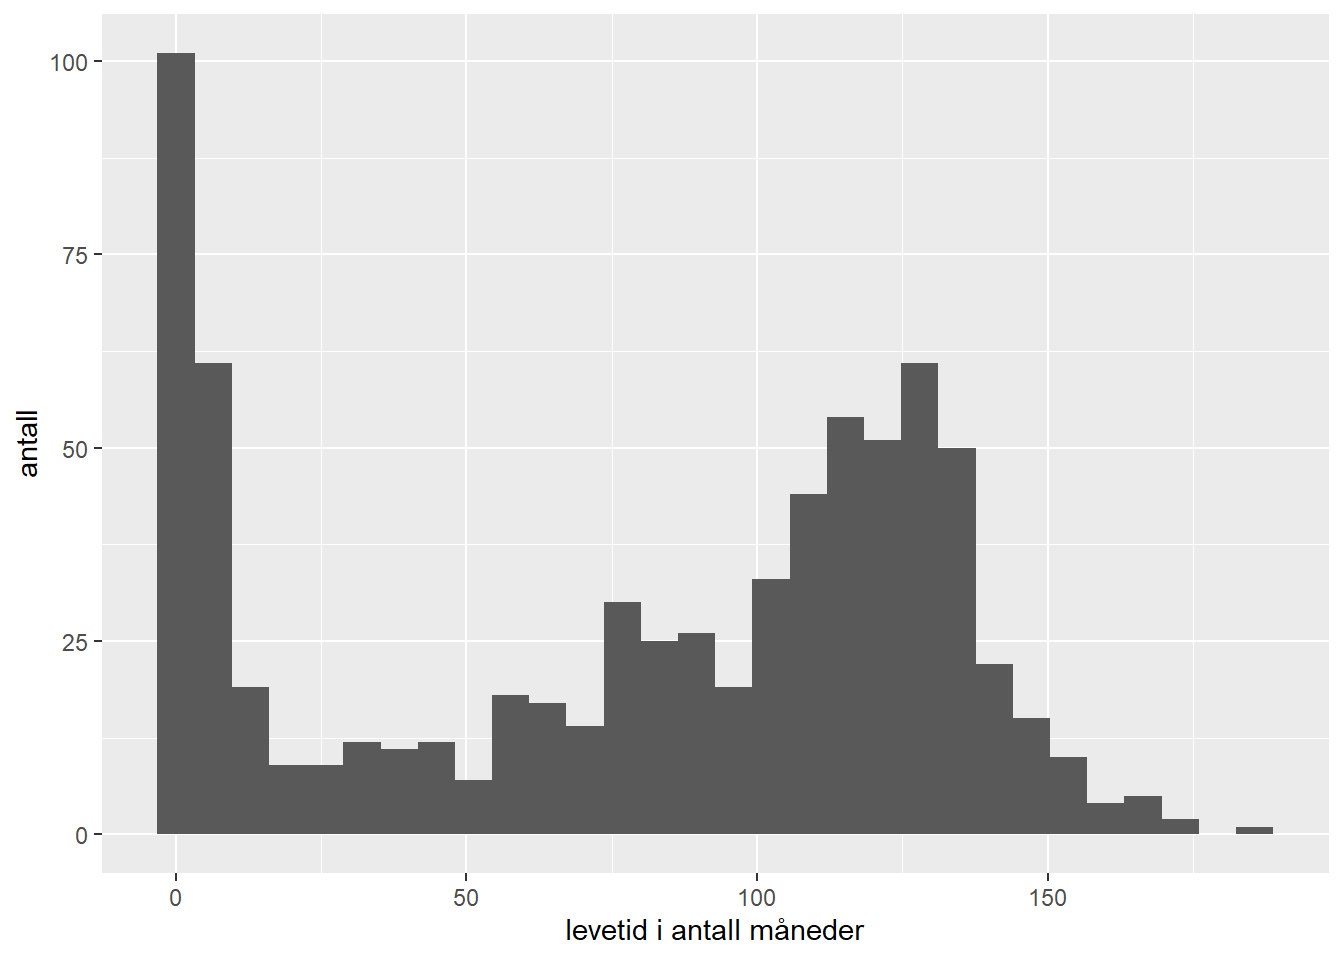
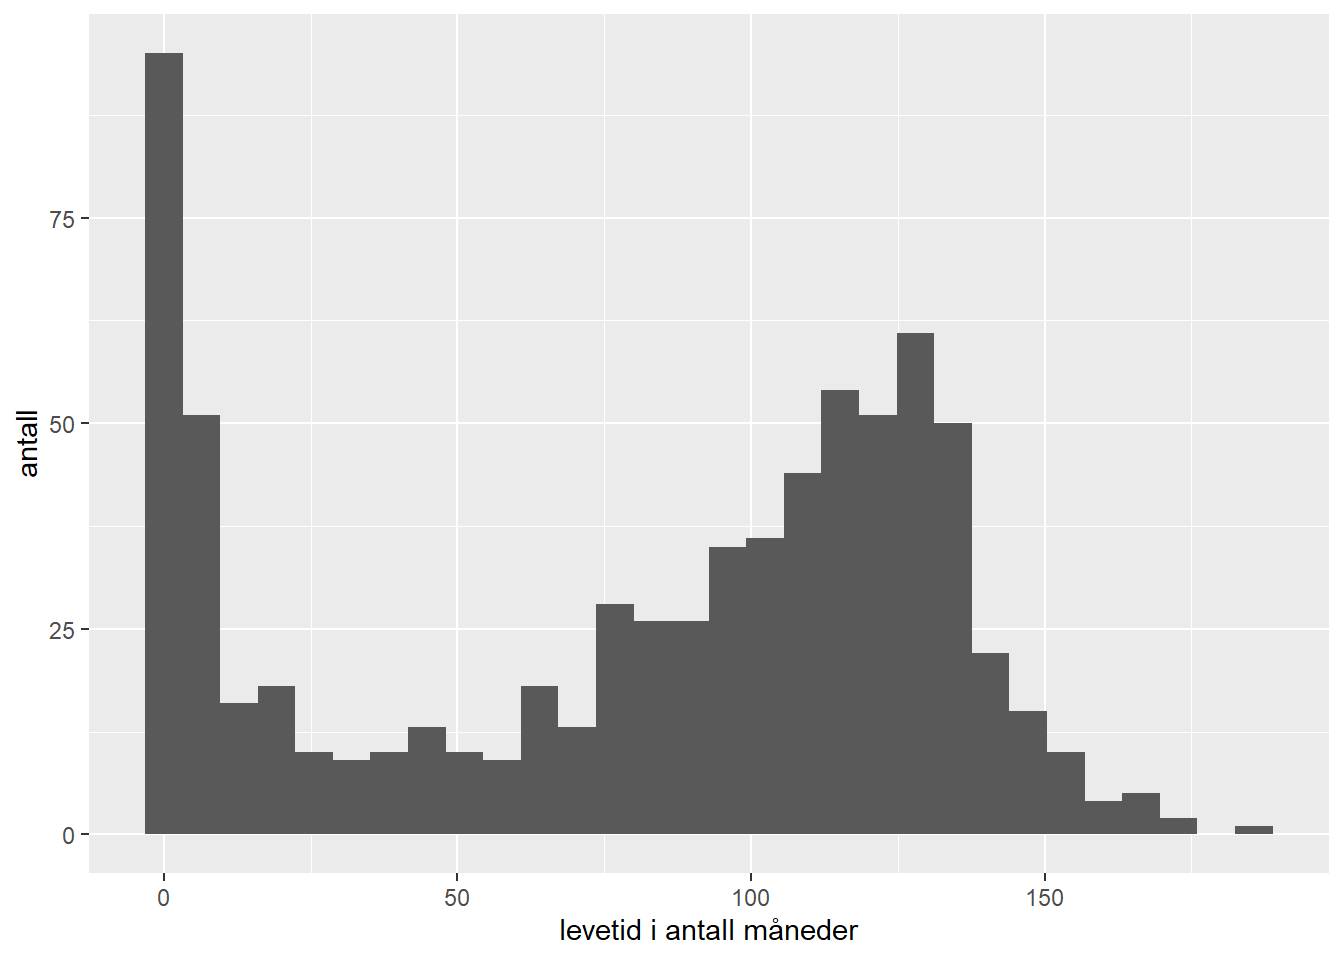
Build

diff --git a/docs/deskriptiv-statistikk.html b/docs/deskriptiv-statistikk.html
@@ -270,10 +270,26 @@ code span.wa { color: #60a0b0; font-weight: bold; font-style: italic; } /* Warni
 </div>
 <p><em>Videovinduet inneholder flere videoer. Bruk nedtrekksmenyen øverst i vinduet for å få en oversikt over alle videoene i dette delkapittelet og bytte mellom dem.</em></p>
 <p>Deskriptiv statistikk har to hovedformål. Det første er å <strong>bli kjent med et datasett</strong>: før vi setter i gang med mer avansert analyse, vil vi danne oss et bilde av hva slags tall vi har foran oss, om det finnes åpenbare feil eller ekstremverdier, og hvilke mønstre som umiddelbart trer frem. Det andre formålet er å <strong>presentere resultater</strong> slik at de er lette å forstå for andre. Et viktig poeng er at deskriptiv statistikk verken generaliserer fra utvalget til en større populasjon eller tester årsakssammenhenger. Vi lar rett og slett dataene fortelle sin egen historie. Selve slutningen fra utvalg til populasjon kommer vi tilbake til i neste delkapittel.</p>
+</div>
+<div id="variabeltyper-og-maleniva" class="section level3 hasAnchor" number="2.1.1">
+<h3><span class="header-section-number">2.1.1</span> Variabeltyper og målenivå<a href="deskriptiv-statistikk.html#variabeltyper-og-maleniva" class="anchor-section" aria-label="Anchor link to header"></a></h3>
+<p>Før vi beskriver et datasett, er det nyttig å vite <em>hva slags</em> variabler vi har med å gjøre, for det avgjør hvilke regnestykker og figurer som gir mening. Vi skiller grovt mellom to hovedtyper:</p>
+<ul>
+<li><strong>Kategoriske variabler</strong> deler observasjonene inn i grupper. Eksempler er kjønn, parti, bostedsfylke eller karakter (A til F). Vi kan telle hvor mange som havner i hver kategori, men det gir sjelden mening å regne ut et «gjennomsnitt» av dem.</li>
+<li><strong>Numeriske (kvantitative) variabler</strong> er tall vi faktisk kan regne med, som alder, inntekt, høyde eller antall barn.</li>
+</ul>
+<p>Innenfor disse to typene er det vanlig å skille mellom fire <strong>målenivåer</strong>, etter hvor mye informasjon verdiene bærer:</p>
+<ul>
+<li><strong>Nominalnivå</strong> (kategorisk): rene merkelapper uten naturlig rekkefølge, for eksempel parti eller sivilstand. Det eneste vi kan gjøre, er å avgjøre om to verdier er <em>like</em> eller <em>ulike</em> (<span class="math inline">\(=\)</span>, <span class="math inline">\(\neq\)</span>). En kategorisk variabel med bare to mulige verdier (ja/nei) kalles <em>dikotom</em>.</li>
+<li><strong>Ordinalnivå</strong> (kategorisk): kategorier med en naturlig <em>rangering</em>, men uten at avstanden mellom trinnene er veldefinert. Svaralternativene fra «svært misfornøyd» til «svært fornøyd» er ordinale: vi vet at «fornøyd» er bedre enn «misfornøyd» (<span class="math inline">\(&lt;\)</span>, <span class="math inline">\(&gt;\)</span>), men ikke <em>hvor mye</em> bedre.</li>
+<li><strong>Intervallnivå</strong> (numerisk): tall der <em>avstandene</em> er meningsfulle, men der nullpunktet er vilkårlig. Temperatur i Celsius er det klassiske eksempelet: forskjellen mellom 10 og 20 grader er like stor som mellom 20 og 30, men 0 °C betyr ikke «ingen temperatur», og 20 °C er <em>ikke</em> dobbelt så varmt som 10 °C. Vi kan legge til og trekke fra (<span class="math inline">\(+\)</span>, <span class="math inline">\(-\)</span>), men forholdstall gir ikke mening.</li>
+<li><strong>Forholdsnivå</strong> (numerisk): som intervallnivå, men med et ekte nullpunkt, slik at også <em>forholdstall</em> gir mening. Inntekt, vekt, tidsbruk og antall er forholdsdata: 0 kr betyr ingen inntekt, og 100 000 kr er dobbelt så mye som 50 000 kr. Her er alle de vanlige regneoperasjonene tillatt (<span class="math inline">\(=, \neq, &lt;, &gt;, +, -, \times, /\)</span>).</li>
+</ul>
+<p>Nivåene bygger på hverandre: hvert nivå tillater alt det forrige gjør, pluss litt mer. Målenivået styrer også hvilke beskrivende mål som gir mening. For en nominal variabel er <em>typetallet</em> det eneste fornuftige sentralmålet; for ordinaldata kan vi i tillegg bruke <em>medianen</em>; og først for intervall- og forholdsdata er <em>gjennomsnittet</em> meningsfullt.</p>
 <p>Når vi beskriver en tallvariabel numerisk, er det særlig to spørsmål vi stiller: <em>hvor ligger tyngdepunktet i dataene</em>, og <em>hvor spredt er de rundt dette tyngdepunktet</em>? Har vi to variabler, kommer et tredje spørsmål til: <em>henger de sammen</em>?</p>
 </div>
-<div id="sentraltendens" class="section level3 hasAnchor" number="2.1.1">
-<h3><span class="header-section-number">2.1.1</span> Sentraltendens<a href="deskriptiv-statistikk.html#sentraltendens" class="anchor-section" aria-label="Anchor link to header"></a></h3>
+<div id="sentraltendens" class="section level3 hasAnchor" number="2.1.2">
+<h3><span class="header-section-number">2.1.2</span> Sentraltendens<a href="deskriptiv-statistikk.html#sentraltendens" class="anchor-section" aria-label="Anchor link to header"></a></h3>
 <p>Tyngdepunktet, eller sentraltendensen, kan måles på flere måter:</p>
 <ul>
 <li><strong>Gjennomsnittet</strong> <span class="math inline">\(\overline{X} = \frac{1}{n}\sum_{i=1}^n X_i\)</span> er summen av alle verdiene delt på antallet. Dette er det vanligste målet, men det trekkes lett i retning av ekstremverdier.</li>
@@ -282,15 +298,15 @@ code span.wa { color: #60a0b0; font-weight: bold; font-style: italic; } /* Warni
 </ul>
 <p>Hvorfor bry seg med mer enn gjennomsnittet? Fordi medianen er langt mer <strong>robust</strong> mot ekstremverdier. Tenk deg lønningene på en liten arbeidsplass med ti ansatte, der én av dem tilfeldigvis er konsernsjefen. Gjennomsnittslønnen kan da bli misvisende høy og gi et helt feilaktig bilde av hva en «typisk» ansatt tjener, mens medianen er upåvirket av hvor ekstremt høy den ene lønnen er. Nettopp derfor rapporteres for eksempel medianinntekt, og ikke gjennomsnittsinntekt, i mange sammenhenger.</p>
 </div>
-<div id="spredning" class="section level3 hasAnchor" number="2.1.2">
-<h3><span class="header-section-number">2.1.2</span> Spredning<a href="deskriptiv-statistikk.html#spredning" class="anchor-section" aria-label="Anchor link to header"></a></h3>
+<div id="spredning" class="section level3 hasAnchor" number="2.1.3">
+<h3><span class="header-section-number">2.1.3</span> Spredning<a href="deskriptiv-statistikk.html#spredning" class="anchor-section" aria-label="Anchor link to header"></a></h3>
 <p>To datasett kan ha nøyaktig samme gjennomsnitt og likevel se helt forskjellige ut, fordi verdiene er ulikt spredt. Det vanligste spredningsmålet er <strong>standardavviket</strong></p>
 <p><span class="math display">\[s = \sqrt{\frac{1}{n-1}\sum_{i=1}^n (X_i - \overline{X})^2},\]</span></p>
 <p>som grovt sagt måler hvor langt observasjonene i gjennomsnitt ligger fra <span class="math inline">\(\overline{X}\)</span>. Kvadratet <span class="math inline">\(s^2\)</span> kalles <strong>variansen</strong>. Standardavviket har samme måleenhet som dataene selv (kroner, centimeter, …) og er derfor lettest å tolke.</p>
 <p>Et alternativ som (i likhet med medianen) er robust mot ekstremverdier, er å bruke <strong>prosentiler</strong>. Den <span class="math inline">\(p\)</span>-te prosentilen er den verdien som har <span class="math inline">\(p\)</span> % av observasjonene under seg. De tre kvartilene (25-, 50- og 75-prosentilene) deler dataene i fire like store deler, og avstanden mellom øvre og nedre kvartil kalles <strong>interkvartilbredden</strong> (IQR). Et boksplott er en effektiv grafisk fremstilling av nettopp disse størrelsene.</p>
 </div>
-<div id="sammenheng-mellom-to-variabler" class="section level3 hasAnchor" number="2.1.3">
-<h3><span class="header-section-number">2.1.3</span> Sammenheng mellom to variabler<a href="deskriptiv-statistikk.html#sammenheng-mellom-to-variabler" class="anchor-section" aria-label="Anchor link to header"></a></h3>
+<div id="sammenheng-mellom-to-variabler" class="section level3 hasAnchor" number="2.1.4">
+<h3><span class="header-section-number">2.1.4</span> Sammenheng mellom to variabler<a href="deskriptiv-statistikk.html#sammenheng-mellom-to-variabler" class="anchor-section" aria-label="Anchor link to header"></a></h3>
 <p>Har vi målt to variabler for de samme observasjonene (for eksempel høyde og vekt), vil vi ofte vite om de henger sammen. Grafisk gjør vi det med et <strong>spredningsplott</strong>, og numerisk med <strong>korrelasjonskoeffisienten</strong> <span class="math inline">\(r\)</span>. Den forteller oss hvor nær punktene ligger en rett linje, og har tre egenskaper det er verdt å merke seg:</p>
 <ul>
 <li><span class="math inline">\(r\)</span> ligger alltid mellom <span class="math inline">\(-1\)</span> og <span class="math inline">\(1\)</span>.</li>
@@ -299,13 +315,13 @@ code span.wa { color: #60a0b0; font-weight: bold; font-style: italic; } /* Warni
 </ul>
 <p>Her lurer en klassisk felle: <strong>at <span class="math inline">\(r = 0\)</span> betyr ikke at variablene er uavhengige.</strong> Korrelasjonskoeffisienten fanger bare opp <em>lineære</em> sammenhenger. To variabler kan ha en tydelig, men krum, sammenheng (for eksempel U-formet) og likevel ha korrelasjon null. Det motsatte holder derimot alltid: er to variabler uavhengige, er de også ukorrelerte.</p>
 </div>
-<div id="a-presentere-data" class="section level3 hasAnchor" number="2.1.4">
-<h3><span class="header-section-number">2.1.4</span> Å presentere data<a href="deskriptiv-statistikk.html#a-presentere-data" class="anchor-section" aria-label="Anchor link to header"></a></h3>
+<div id="a-presentere-data" class="section level3 hasAnchor" number="2.1.5">
+<h3><span class="header-section-number">2.1.5</span> Å presentere data<a href="deskriptiv-statistikk.html#a-presentere-data" class="anchor-section" aria-label="Anchor link to header"></a></h3>
 <p>Deskriptiv statistikk handler like mye om å <em>presentere</em> tall som om å regne dem ut. Dette er en ferdighet det er verdt å ta på alvor: evnen til å lage en overbevisende tabell eller figur kan være direkte avgjørende for gjennomslagskraften din, enten du legger fram resultater for en sjef, en kunde eller en eksamenssensor.</p>
 <p>Et av de mest berømte eksemplene på god deskriptiv statistikk er Charles Minards figur fra 1869 over Napoleons felttog mot Moskva, som vi ser nærmere på i videoforelesningen. På ett enkelt bilde klarer den å formidle tid, antall soldater, geografisk posisjon og temperatur samtidig, et forbilledlig eksempel på hvor mye informasjon en gjennomtenkt figur kan bære. I forelesningen ser vi også på noen <em>grelle</em> eksempler på det motsatte: hvordan grafiske virkemidler kan brukes til å gi skjeve og misvisende fremstillinger.</p>
 </div>
-<div id="et-eksempel-i-r" class="section level3 hasAnchor" number="2.1.5">
-<h3><span class="header-section-number">2.1.5</span> Et eksempel i R<a href="deskriptiv-statistikk.html#et-eksempel-i-r" class="anchor-section" aria-label="Anchor link to header"></a></h3>
+<div id="et-eksempel-i-r" class="section level3 hasAnchor" number="2.1.6">
+<h3><span class="header-section-number">2.1.6</span> Et eksempel i R<a href="deskriptiv-statistikk.html#et-eksempel-i-r" class="anchor-section" aria-label="Anchor link to header"></a></h3>
 <p>La oss se hvordan vi kan beskrive et datasett i praksis. Tenk deg den daglige avkastningen (i prosent) til to ulike investeringsstrategier (en <em>forsiktig</em> og en <em>offensiv</em>) over 1000 handledager. Her simulerer vi tallene selv, slik at du kan kjøre koden og få nøyaktig de samme resultatene:</p>
 <div class="sourceCode" id="cb28"><pre class="sourceCode r"><code class="sourceCode r"><span id="cb28-1"><a href="deskriptiv-statistikk.html#cb28-1" tabindex="-1"></a><span class="fu">set.seed</span>(<span class="dv">42</span>)</span>
 <span id="cb28-2"><a href="deskriptiv-statistikk.html#cb28-2" tabindex="-1"></a>avkastning <span class="ot">&lt;-</span> <span class="fu">data.frame</span>(</span>
@@ -350,8 +366,8 @@ Figur 2.2: Boksplott av daglig avkastning for de to strategiene.
 </div>
 <p>Slik leser vi figuren (jf. spredningsmålene i avsnittet om spredning): streken inne i boksen er medianen, selve boksen dekker interkvartilbredden fra nedre til øvre kvartil, og «værhårene» strekker seg ut til de mest ekstreme observasjonene som ikke regnes som uteliggere. Punktene utenfor værhårene er nettopp uteliggere. Igjen ser vi at de to strategiene har omtrent samme midtpunkt, men at den offensive har en mye høyere boks og lengre værhår, altså langt større spredning.</p>
 </div>
-<div id="kontrollsprsmal" class="section level3 hasAnchor" number="2.1.6">
-<h3><span class="header-section-number">2.1.6</span> Kontrollspørsmål<a href="deskriptiv-statistikk.html#kontrollsprsmal" class="anchor-section" aria-label="Anchor link to header"></a></h3>
+<div id="kontrollsprsmal" class="section level3 hasAnchor" number="2.1.7">
+<h3><span class="header-section-number">2.1.7</span> Kontrollspørsmål<a href="deskriptiv-statistikk.html#kontrollsprsmal" class="anchor-section" aria-label="Anchor link to header"></a></h3>
 <p>Her er noen kontrollspørsmål som du kan prøve deg på:</p>
 <ol style="list-style-type: decimal">
 <li>Hva er forskjellen på deskriptiv statistikk og statistisk inferens?</li>

diff --git a/docs/relevant-r-grunnleggende.html b/docs/relevant-r-grunnleggende.html
@@ -291,19 +291,22 @@ code span.wa { color: #60a0b0; font-weight: bold; font-style: italic; } /* Warni
 <span id="cb42-3"><a href="relevant-r-grunnleggende.html#cb42-3" tabindex="-1"></a></span>
 <span id="cb42-4"><a href="relevant-r-grunnleggende.html#cb42-4" tabindex="-1"></a><span class="fu">mean</span>(survey<span class="sc">$</span>age)                          <span class="co"># Gjennomsnitt</span></span>
 <span id="cb42-5"><a href="relevant-r-grunnleggende.html#cb42-5" tabindex="-1"></a><span class="fu">median</span>(survey<span class="sc">$</span>age)                        <span class="co"># Median</span></span>
-<span id="cb42-6"><a href="relevant-r-grunnleggende.html#cb42-6" tabindex="-1"></a></span>
-<span id="cb42-7"><a href="relevant-r-grunnleggende.html#cb42-7" tabindex="-1"></a><span class="fu">table</span>(survey<span class="sc">$</span>party)                       <span class="co"># Kan lese av typetallet manuelt.</span></span>
-<span id="cb42-8"><a href="relevant-r-grunnleggende.html#cb42-8" tabindex="-1"></a><span class="fu">which.max</span>(<span class="fu">table</span>(survey<span class="sc">$</span>party))            <span class="co"># Eller bruke funksjonen which.max()</span></span>
+<span id="cb42-6"><a href="relevant-r-grunnleggende.html#cb42-6" tabindex="-1"></a><span class="fu">min</span>(survey<span class="sc">$</span>age)                           <span class="co"># Minste verdi</span></span>
+<span id="cb42-7"><a href="relevant-r-grunnleggende.html#cb42-7" tabindex="-1"></a><span class="fu">max</span>(survey<span class="sc">$</span>age)                           <span class="co"># Største verdi</span></span>
+<span id="cb42-8"><a href="relevant-r-grunnleggende.html#cb42-8" tabindex="-1"></a><span class="fu">summary</span>(survey<span class="sc">$</span>age)                       <span class="co"># Fem-tallssammendrag (min, kvartiler, maks) og snitt</span></span>
 <span id="cb42-9"><a href="relevant-r-grunnleggende.html#cb42-9" tabindex="-1"></a></span>
-<span id="cb42-10"><a href="relevant-r-grunnleggende.html#cb42-10" tabindex="-1"></a><span class="fu">sd</span>(fishermen<span class="sc">$</span>total_mercury)               <span class="co"># Standardavvik</span></span>
-<span id="cb42-11"><a href="relevant-r-grunnleggende.html#cb42-11" tabindex="-1"></a><span class="fu">quantile</span>(fishermen<span class="sc">$</span>total_mercury, <span class="fl">0.20</span>)   <span class="co"># Kvantiler</span></span>
-<span id="cb42-12"><a href="relevant-r-grunnleggende.html#cb42-12" tabindex="-1"></a><span class="fu">quantile</span>(fishermen<span class="sc">$</span>total_mercury)         <span class="co"># Kvartilene</span></span>
-<span id="cb42-13"><a href="relevant-r-grunnleggende.html#cb42-13" tabindex="-1"></a></span>
-<span id="cb42-14"><a href="relevant-r-grunnleggende.html#cb42-14" tabindex="-1"></a><span class="fu">cor</span>(fishermen<span class="sc">$</span>height, fishermen<span class="sc">$</span>weight)   <span class="co"># Korrelasjonskoeffisient</span></span>
-<span id="cb42-15"><a href="relevant-r-grunnleggende.html#cb42-15" tabindex="-1"></a><span class="fu">table</span>(survey<span class="sc">$</span>religious)                   <span class="co"># Frekvenstabell </span></span>
-<span id="cb42-16"><a href="relevant-r-grunnleggende.html#cb42-16" tabindex="-1"></a>survey <span class="sc">%&gt;%</span>                                <span class="co"># Krysstabell av to variabler (krever</span></span>
-<span id="cb42-17"><a href="relevant-r-grunnleggende.html#cb42-17" tabindex="-1"></a>  <span class="fu">select</span>(party, religious) <span class="sc">%&gt;%</span>            <span class="co"># pipe-operatoren og select()-funks.  </span></span>
-<span id="cb42-18"><a href="relevant-r-grunnleggende.html#cb42-18" tabindex="-1"></a>  table                                   <span class="co"># fra dplyr-pakken)</span></span></code></pre></div>
+<span id="cb42-10"><a href="relevant-r-grunnleggende.html#cb42-10" tabindex="-1"></a><span class="fu">table</span>(survey<span class="sc">$</span>party)                       <span class="co"># Kan lese av typetallet manuelt.</span></span>
+<span id="cb42-11"><a href="relevant-r-grunnleggende.html#cb42-11" tabindex="-1"></a><span class="fu">which.max</span>(<span class="fu">table</span>(survey<span class="sc">$</span>party))            <span class="co"># Eller bruke funksjonen which.max()</span></span>
+<span id="cb42-12"><a href="relevant-r-grunnleggende.html#cb42-12" tabindex="-1"></a></span>
+<span id="cb42-13"><a href="relevant-r-grunnleggende.html#cb42-13" tabindex="-1"></a><span class="fu">sd</span>(fishermen<span class="sc">$</span>total_mercury)               <span class="co"># Standardavvik</span></span>
+<span id="cb42-14"><a href="relevant-r-grunnleggende.html#cb42-14" tabindex="-1"></a><span class="fu">quantile</span>(fishermen<span class="sc">$</span>total_mercury, <span class="fl">0.20</span>)   <span class="co"># Kvantiler</span></span>
+<span id="cb42-15"><a href="relevant-r-grunnleggende.html#cb42-15" tabindex="-1"></a><span class="fu">quantile</span>(fishermen<span class="sc">$</span>total_mercury)         <span class="co"># Kvartilene</span></span>
+<span id="cb42-16"><a href="relevant-r-grunnleggende.html#cb42-16" tabindex="-1"></a></span>
+<span id="cb42-17"><a href="relevant-r-grunnleggende.html#cb42-17" tabindex="-1"></a><span class="fu">cor</span>(fishermen<span class="sc">$</span>height, fishermen<span class="sc">$</span>weight)   <span class="co"># Korrelasjonskoeffisient</span></span>
+<span id="cb42-18"><a href="relevant-r-grunnleggende.html#cb42-18" tabindex="-1"></a><span class="fu">table</span>(survey<span class="sc">$</span>religious)                   <span class="co"># Frekvenstabell </span></span>
+<span id="cb42-19"><a href="relevant-r-grunnleggende.html#cb42-19" tabindex="-1"></a>survey <span class="sc">%&gt;%</span>                                <span class="co"># Krysstabell av to variabler (krever</span></span>
+<span id="cb42-20"><a href="relevant-r-grunnleggende.html#cb42-20" tabindex="-1"></a>  <span class="fu">select</span>(party, religious) <span class="sc">%&gt;%</span>            <span class="co"># pipe-operatoren og select()-funks.  </span></span>
+<span id="cb42-21"><a href="relevant-r-grunnleggende.html#cb42-21" tabindex="-1"></a>  table                                   <span class="co"># fra dplyr-pakken)</span></span></code></pre></div>
 </div>
 <div id="kjente-fordelinger-kvantiler-og-sannsynligheter" class="section level3 unnumbered hasAnchor">
 <h3>Kjente fordelinger: kvantiler og sannsynligheter<a href="relevant-r-grunnleggende.html#kjente-fordelinger-kvantiler-og-sannsynligheter" class="anchor-section" aria-label="Anchor link to header"></a></h3>

diff --git a/docs/oppgaverdeskriptiv.html b/docs/oppgaverdeskriptiv.html
@@ -314,7 +314,7 @@ Løsning
 <blockquote>
 <ol style="list-style-type: lower-alpha">
 <li>Nominale data: =, ≠</li>
-<li>Intervalldata: =, ≠, &lt;, &gt;, +, -</li>
+<li>Forholdsdata: =, ≠, &lt;, &gt;, +, -, *, /</li>
 <li>Ordinale data: =, ≠, &lt;, &gt;</li>
 </ol>
 </blockquote>
@@ -376,14 +376,14 @@ Løsning
 Løsning
 </summary>
 <blockquote>
-<p>Kvartilene kan fortelle oss noe om nivået og variasjonen i poengsummene til studentene som har tatt de to kursene. Vi ser at kurs nummer 1 har en symmetrisk fordeling med en median som er høyere enn kurs nummer 2. På en annen side har poengfordelingen til kurs nummer 2 en lengre høyre hale hvor tredje kvantilen tilsier at hele 25 % vil få 270 poeng eller mer. Det tilsvarende tallet for kurs nummer én er 250. Samlet sett er det kanskje “tryggere” med kurs nummer 1, mens det potensielle læringsutbytte har “større tak” i kurs nummer to.</p>
+<p>Kvartilene kan fortelle oss noe om nivået og variasjonen i poengsummene til studentene som har tatt de to kursene. Vi ser at kurs nummer 1 har en symmetrisk fordeling med en median som er høyere enn kurs nummer 2. På en annen side har poengfordelingen til kurs nummer 2 en lengre høyre hale hvor tredje kvartilen tilsier at hele 25 % vil få 270 poeng eller mer. Det tilsvarende tallet for kurs nummer én er 250. Samlet sett er det kanskje “tryggere” med kurs nummer 1, mens det potensielle læringsutbytte har “større tak” i kurs nummer to.</p>
 </blockquote>
 </details>
 <ol start="6" style="list-style-type: decimal">
 <li>MET4 ble et år rettet av to sensorer og et boxplot av poengene de ga sine respektive kandidater var som følger:</li>
 </ol>
 <p><img src="met4_files/figure-html/unnamed-chunk-33-1.png" alt="" width="672" /></p>
-<p>Hva kan du si karakterfordelingen til de to sensorene?</p>
+<p>Hva kan du si om karakterfordelingen til de to sensorene?</p>
 <details>
 <summary>
 Løsning
@@ -430,7 +430,7 @@ Løsning
 Løsning
 </summary>
 <blockquote>
-<p>Datasett a: <span class="math inline">\(r_2 = 0.81\)</span>, Datasett b: <span class="math inline">\(r_1 = -0.37\)</span>, Dasett c: <span class="math inline">\(r_4 = -0.96\)</span>, Datasett d: <span class="math inline">\(r_3 = -0.02\)</span></p>
+<p>Datasett a: <span class="math inline">\(r_2 = 0.81\)</span>, Datasett b: <span class="math inline">\(r_1 = -0.37\)</span>, Datasett c: <span class="math inline">\(r_4 = -0.96\)</span>, Datasett d: <span class="math inline">\(r_3 = -0.02\)</span></p>
 </blockquote>
 <blockquote>
 <p>Datasett d er et eksempel på at korrelasjonen mellom to variabler kan være svært nær 0, selv om det er en tydelig (ikke-lineær) sammenheng mellom dem. Det som skjer når vi regner ut <span class="math inline">\(r\)</span> i dette tilfellet er at den negative avhengigheten vi ser til venstre i figuren kanselleres av den positive avhengigheten til høyre i figuren.</p>
@@ -481,7 +481,7 @@ Løsning
 <li>Populasjonen er alle de aktuelle maskindelene som lages av fabrikanten.</li>
 <li>Utvalget er de 1000 delene som ble trukket fra en stor produksjon.</li>
 <li>Parameteren er andelen defekte maskindeler i alle de aktuelle maskindelene som produseres. 15% er den påståtte parameter.</li>
-<li>Estimatoren er andelen defekte maskindeler i utvalget. 12% er den observerte estimatoren.</li>
+<li>Estimatoren er andelen defekte maskindeler i utvalget. 12% er det observerte estimatet.</li>
 <li>Vi kan estimere at andelen defekte maskindeler i populasjonen er 12%. Ved å bruke statistisk inferens kan vi undersøke om vi har nok statistisk bevis til å avvise påstanden om at den sanne andelen defekte maskindeler er 15%.</li>
 </ol>
 </blockquote>
@@ -518,13 +518,13 @@ Løsning
 </summary>
 <blockquote>
 <ol style="list-style-type: lower-alpha">
-<li><span class="math inline">\(P(X_1 = 1) = P(X_2 = 6) = 1/6\)</span></li>
+<li><span class="math inline">\(P(X_1 = 1) = P(X_1 = 6) = 1/6\)</span></li>
 <li>Det er bare en måte at gjennomsnittet av to kast kan bli <span class="math inline">\(1\)</span> og det er at begge kastene blir <span class="math inline">\(1\)</span>: <span class="math inline">\(P(\overline{X} = 1) = P(X_1 = 1, X_2 = 1) = P(X_1 = 1)P(X_2 = 1) = 1/36\)</span>, og tilsvarende for <span class="math inline">\(P(\overline{X} = 6)\)</span>.</li>
 <li>Det er bare en måte at gjennomsnittet av 5 kast kan bli <span class="math inline">\(1\)</span> og det er at alle fem kastene blir <span class="math inline">\(1\)</span>:<span class="math inline">\(P(\overline{X} = 1) = P(X_1 = 1)P(X_2 = 1)P(X_3 = 1)P(X_4 = 1)P(X_5 = 1) = 0.00013\)</span>, og tilsvarende for <span class="math inline">\(P(\overline{X} = 6)\)</span>.</li>
 </ol>
 </blockquote>
 <blockquote>
-<p>Denne oppgaven illustrerer hvordan gjennomsnittet, uavhengig av fordelingen til <span class="math inline">\(X\)</span> som i dette tilfellet er uniformt fordelt på <span class="math inline">\({1,2,3,4,5,6}\)</span>, er normalfordelt <span class="math inline">\(\overline{X}\sim N(\mu, \sigma^2/n)\)</span> og beveger seg mot forventningen til <span class="math inline">\(X\)</span> (som i dette tilfellet er <span class="math inline">\(\mu = 3.5\)</span>). Det at variansen til gjennomsnittet <span class="math inline">\(\sigma^2/n\)</span> blir mindre når <span class="math inline">\(n\)</span> øker ser vi er svært logisk her: Det er værre for gjennomsnittet til terningkastene å oppnå “ekstreme” verdier som <span class="math inline">\(\overline{X} = 1\)</span> eller <span class="math inline">\(\overline{X} = 6\)</span> siden dette innebærer at alle kastene må enten være 1 eller 6. Derimot er det en hel rekke kombinasjoner av kast som gir et gjennomsnitt nær <span class="math inline">\(3.5\)</span>, så slike verdier av gjennomsnittet er mye mer sannsynlig.</p>
+<p>Denne oppgaven illustrerer hvordan gjennomsnittet, uavhengig av fordelingen til <span class="math inline">\(X\)</span> som i dette tilfellet er uniformt fordelt på <span class="math inline">\({1,2,3,4,5,6}\)</span>, for store <span class="math inline">\(n\)</span> er tilnærmet normalfordelt <span class="math inline">\(\overline{X}\sim N(\mu, \sigma^2/n)\)</span> og beveger seg mot forventningen til <span class="math inline">\(X\)</span> (som i dette tilfellet er <span class="math inline">\(\mu = 3.5\)</span>). Det at variansen til gjennomsnittet <span class="math inline">\(\sigma^2/n\)</span> blir mindre når <span class="math inline">\(n\)</span> øker ser vi er svært logisk her: Det er verre for gjennomsnittet til terningkastene å oppnå “ekstreme” verdier som <span class="math inline">\(\overline{X} = 1\)</span> eller <span class="math inline">\(\overline{X} = 6\)</span> siden dette innebærer at alle kastene må enten være 1 eller 6. Derimot er det en hel rekke kombinasjoner av kast som gir et gjennomsnitt nær <span class="math inline">\(3.5\)</span>, så slike verdier av gjennomsnittet er mye mer sannsynlig.</p>
 </blockquote>
 <blockquote>
 <p>Under ser du et histogram over gjennomsnittene dersom vi gjentar terningkasteksperimentet med henholdsvis <span class="math inline">\(n=1,2, 5\)</span> kast 2000 ganger. Allerede for <span class="math inline">\(n=5\)</span> ser vi at de fleste gjennomsnitt ligger nær det sanne gjennomsnittet på 3.5.</p>
@@ -909,7 +909,7 @@ Løsning
 Løsning
 </summary>
 <blockquote>
-<p>Vi vet da at <span class="math inline">\(\overline{X}_1 - \overline{X}_2 &gt; 0\)</span> og utnytter at denne størrelsen er normalfordelt:
+<p>Vi ser på hendelsen <span class="math inline">\(\overline{X}_1 - \overline{X}_2 &gt; 0\)</span> og utnytter at differansen <span class="math inline">\(\overline{X}_1 - \overline{X}_2\)</span> er normalfordelt:
 <span class="math display">\[\begin{equation*}
 \begin{split}
 P(\overline{X}_1 - \overline{X}_2 &gt; 0) &amp;= P\left(\frac{\overline{X}_1 - \overline{X}_2 - (40 - 38)}{\sqrt{\frac{6^2}{25} + \frac{8^2}{25}}} &gt; \frac{0 - (40 - 38)}{\sqrt{\frac{6^2}{25} + \frac{8^2}{25}}} \right)\\